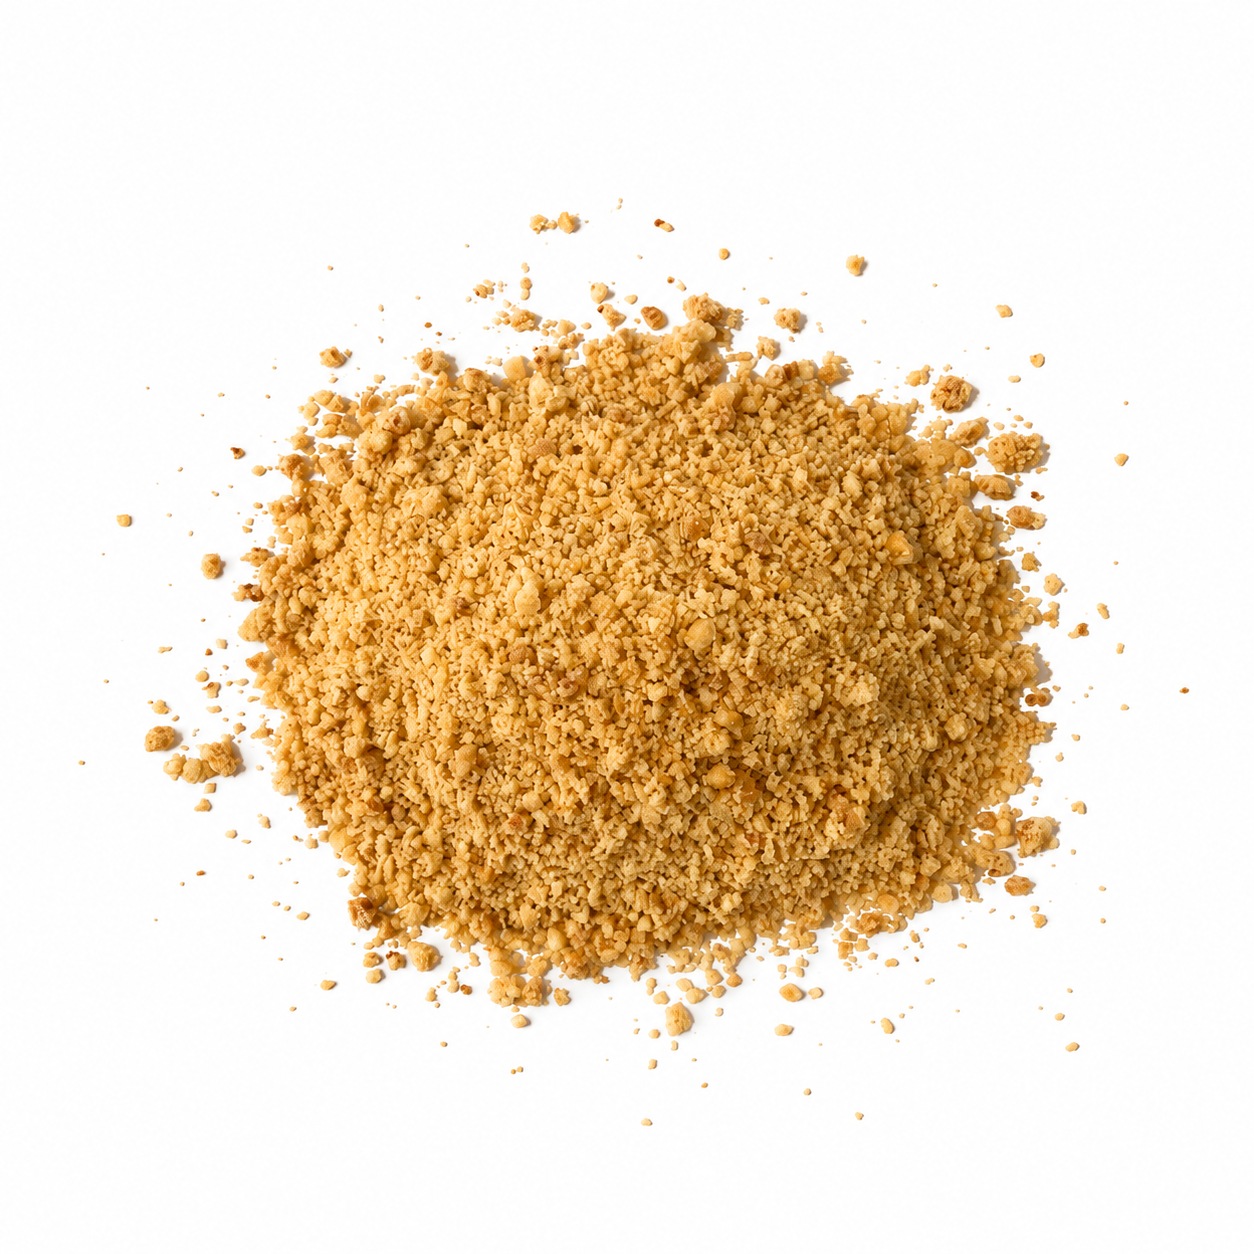
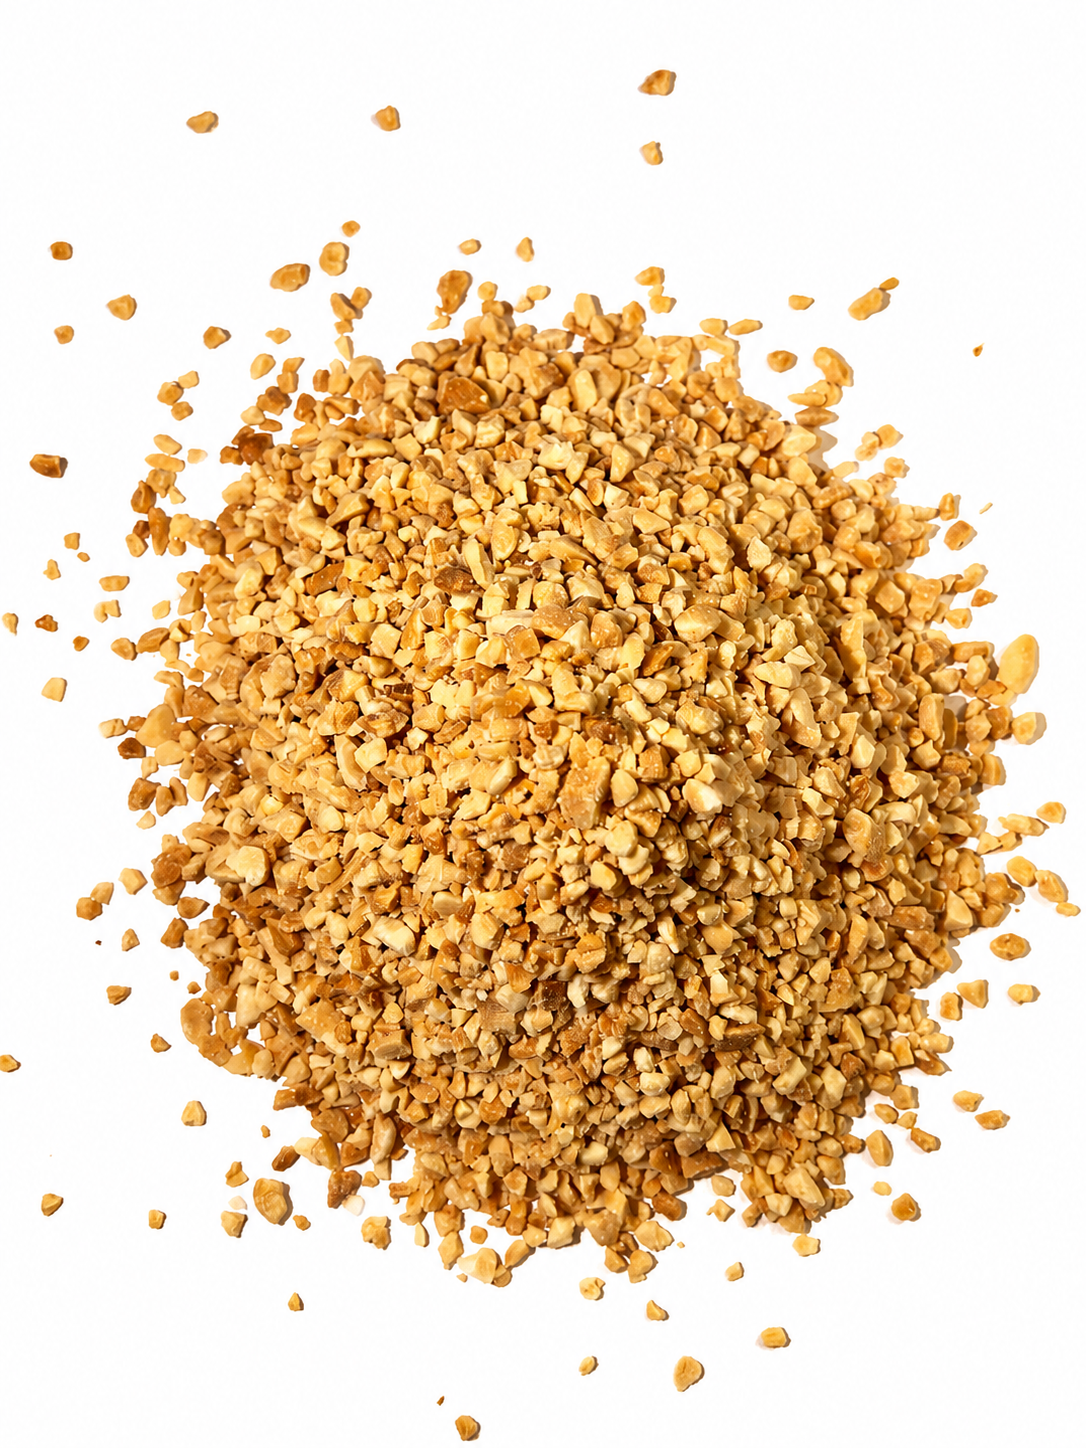
feat: add new products and product images

diff --git a/js/script.js b/js/script.js
@@ -93,6 +93,16 @@ const products = [
     description:
       "Tempero clássico e equilibrado para quem gosta de sabor suave.",
   },
+  {
+    id: 6,
+    name: "Amendoim sabor Mix",
+    category: "linha-sabores",
+    badge: "sabores",
+    weight: "300g",
+    price: 10,
+    image: "./assets/img/linhasabor/mix.jpeg",
+    description: "Amendoim com aquela mistura de sabores.",
+  },
 
   // LINHA DOCES
 {
@@ -160,16 +170,6 @@ const products = [
       "Peça a quantidade ao finalizar o pedido no whatsApp, acima de 10kg possui desconto especial.",
   },
   {
-    id: 17,
-    name: "Amendoim Paçoca",
-    category: "por-kg",
-    badge: "kg",
-    weight: "Por kg",
-    price: 15,
-    image: "/assets/img/linhagranel/amendoim-pacocagranel.png",
-    description: "Peça a quantidade ao finalizar o pedido no whatsApp, acima de 10kg possui desconto especial.",
-  },
-  {
     id: 18,
     name: "Amendoim Doce",
     category: "por-kg",
@@ -181,12 +181,12 @@ const products = [
   },
   {
     id: 19,
-    name: "Amendoim Granulado",
+    name: "Farinha de Amendoim",
     category: "por-kg",
     badge: "kg",
     weight: "Por kg",
     price: 15,
-    image: "/assets/img/linhagranel/amendoim-granuladogranel.png",
+    image: "/assets/img/linhagranel/farinha-amendoim.png",
     description: "Peça a quantidade ao finalizar o pedido no whatsApp, acima de 10kg possui desconto especial.",
   },
   {
@@ -211,15 +211,105 @@ const products = [
   },
   {
     id: 22,
-    name: "Farinha de Amendoim",
+    name: "Amendoim Granulado",
     category: "por-kg",
     badge: "kg",
     weight: "Por kg",
     price: 15,
-    image: "/assets/img/linhagranel/farinha-amendoim.png",
+    image: "/assets/img/linhagranel/amendoim-granuladogranel.png",
     description:
       "Peça a quantidade ao finalizar o pedido no whatsApp, acima de 10kg possui desconto especial.",
   },
+  {
+    id: 23,
+    name: "Amendoim Paçoca",
+    category: "por-kg",
+    badge: "kg",
+    weight: "Por kg",
+    price: 15,
+    image: "/assets/img/linhagranel/pacocakg.png",
+    description:
+      "Peça a quantidade ao finalizar o pedido no whatsApp, acima de 10kg possui desconto especial.",
+  },
+  {
+    id: 23,
+    name: "Amendoim com Sal rosa",
+    category: "por-kg",
+    badge: "kg",
+    weight: "Por kg",
+    price: 15,
+    image: "/assets/img/linhagranel/amendoim-salrosa.png",
+    description:
+      "Peça a quantidade ao finalizar o pedido no whatsApp, acima de 10kg possui desconto especial.",
+  },
+  {
+    id: 23,
+    name: "Amendoim Mix",
+    category: "por-kg",
+    badge: "kg",
+    weight: "Por kg",
+    price: 15,
+    image: "/assets/img/linhagranel/mixkg.png",
+    description:
+      "Peça a quantidade ao finalizar o pedido no whatsApp, acima de 10kg possui desconto especial.",
+  },
+  {
+    id: 23,
+    name: "Amendoim Bacon",
+    category: "por-kg",
+    badge: "kg",
+    weight: "Por kg",
+    price: 15,
+    image: "/assets/img/linhagranel/baconkg.png",
+    description:
+      "Peça a quantidade ao finalizar o pedido no whatsApp, acima de 10kg possui desconto especial.",
+  },
+  {
+    id: 23,
+    name: "Amendoim Pimenta",
+    category: "por-kg",
+    badge: "kg",
+    weight: "Por kg",
+    price: 15,
+    image: "/assets/img/linhagranel/pimentakg.png",
+    description:
+      "Peça a quantidade ao finalizar o pedido no whatsApp, acima de 10kg possui desconto especial.",
+  },
+  {
+    id: 23,
+    name: "Amendoim Churrasco",
+    category: "por-kg",
+    badge: "kg",
+    weight: "Por kg",
+    price: 15,
+    image: "/assets/img/linhagranel/churrascokg.png",
+    description:
+      "Peça a quantidade ao finalizar o pedido no whatsApp, acima de 10kg possui desconto especial.",
+  },
+  {
+    id: 23,
+    name: "Amendoim Cebola e Salsa",
+    category: "por-kg",
+    badge: "kg",
+    weight: "Por kg",
+    price: 15,
+    image: "/assets/img/linhagranel/cebolaesalsakg.png",
+    description:
+      "Peça a quantidade ao finalizar o pedido no whatsApp, acima de 10kg possui desconto especial.",
+  },
+  {
+    id: 23,
+    name: "Amendoim Mostarda e Mel",
+    category: "por-kg",
+    badge: "kg",
+    weight: "Por kg",
+    price: 15,
+    image: "/assets/img/linhagranel/mostardamelkg.png",
+    description:
+      "Peça a quantidade ao finalizar o pedido no whatsApp, acima de 10kg possui desconto especial.",
+  },
+  
+
   // LINHA fitnes
 
    {